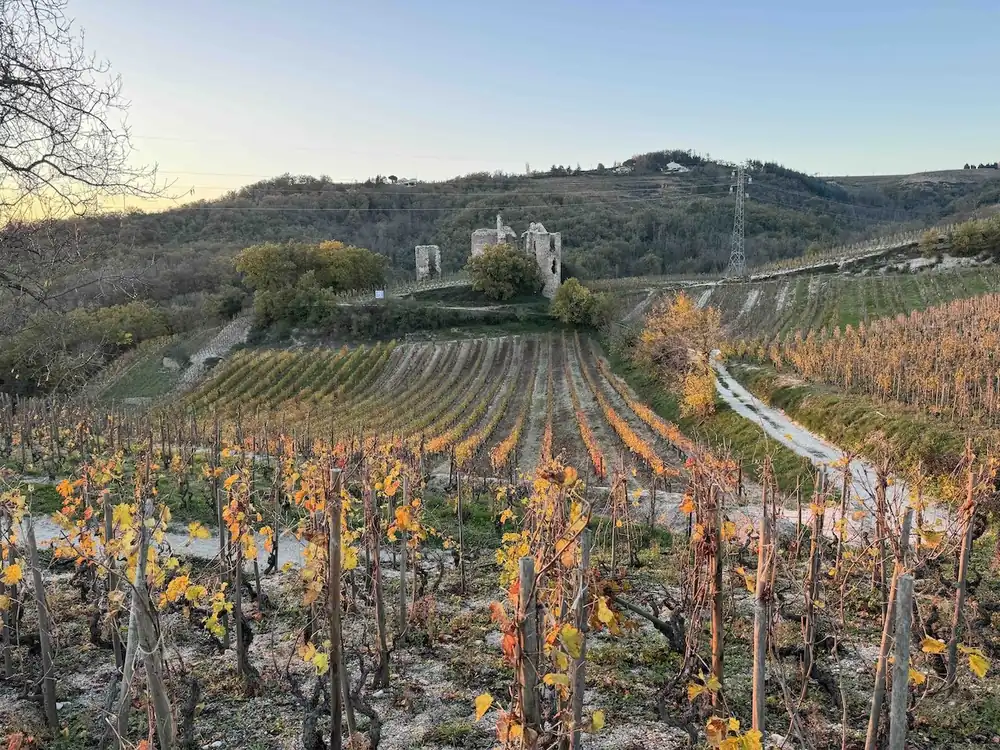
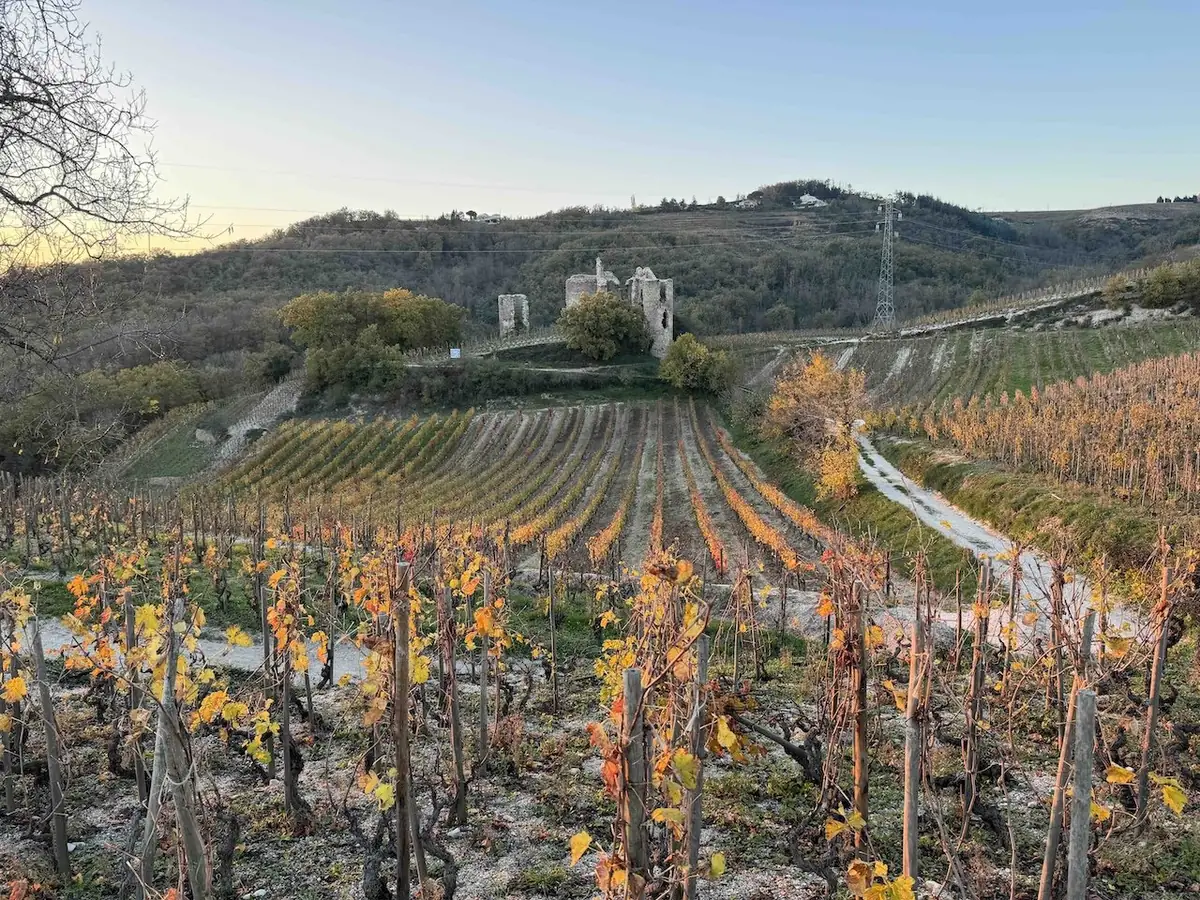
About: photos whole at their own shape, big About title; Guides tile credit as its figcaption
His photos are re-exported at their own aspect ratio (only the bystander
slivers at the left edge trimmed) and laid out in a grid whose column widths
follow each photo's ratio, so nothing is cropped (owner, 19 Oct 2026). The
page gets a visible About heading like the Guides page. The satellite tile
credit moves into the tile's figcaption (ReviewBot PR #114, P2 3).

Claude-Session: https://claude.ai/code/session_01GufJL9KVoJQMTw2uSXyi5B

diff --git a/about/index.html b/about/index.html
@@ -35,16 +35,12 @@
     </header>
 
     <main id="main" class="ab">
+      <header class="page-head">
+        <div class="wrap"><h1>About</h1></div>
+      </header>
       <section class="wrap letter">
-        <div class="mosaic">
-          <img class="t-castle" src="/about/castle.webp" width="1000" height="750" alt="Autumn vineyard rows in yellow leaf below a ruined castle on a hill" />
-          <img class="t-me" src="/about/djoeri.webp" width="600" height="939" loading="lazy" alt="Djoeri Timessen with a glass of red wine" />
-          <img class="t-glass" src="/about/glass.webp" width="600" height="1266" loading="lazy" alt="A glass of red wine on a wooden table, a lake and mountains behind it" />
-          <img class="t-bottles" src="/about/bottles.webp" width="600" height="575" loading="lazy" alt="Three wine bottles on a balcony rail, green hills and mountains behind them" />
-          <img class="t-vines" src="/about/vines.webp" width="600" height="800" loading="lazy" alt="Rows of netted vines under a clear blue sky" />
-        </div>
+        <img class="me" src="/about/djoeri.webp" width="840" height="1217" alt="Djoeri Timessen with a glass of red wine" />
         <div class="words">
-          <h1 class="vh">About AtlaSlope</h1>
           <!-- owner's note -->
           <div class="note">
             <p>I'm Djoeri, a passionate techie who also loves wine.</p>
@@ -58,6 +54,13 @@
           <p class="cred">WSET Level 2 and Level 3. Now studying for the Spanish Wine Scholar.</p>
           <!-- feedback link: owner to choose the address -->
         </div>
+      </section>
+      <!-- photos keep their own shape (owner, 19 Oct 2026, twice: never crop his photos into fixed tiles); one row, column widths in the photos' own width/height ratios, so every photo is whole and the row shares one height -->
+      <section class="wrap photos" aria-label="Photos">
+        <img class="p-castle" src="/about/castle.webp" width="1200" height="900" loading="lazy" alt="Autumn vineyard rows in yellow leaf below a ruined castle on a hill" />
+        <img src="/about/glass.webp" width="800" height="1099" loading="lazy" alt="A glass of red wine on a wooden table, a lake and mountains behind it" />
+        <img src="/about/vines.webp" width="800" height="1067" loading="lazy" alt="Rows of netted vines under a clear blue sky" />
+        <img src="/about/bottles.webp" width="800" height="1067" loading="lazy" alt="Three wine bottles on a balcony rail, green hills and mountains behind them" />
       </section>
       <section class="wrap" aria-labelledby="trace-h"><div class="trace">
         <h2 id="trace-h">Where the facts come from</h2>

diff --git a/src/home/about.css b/src/home/about.css
@@ -1,12 +1,13 @@
 /* About page (mock about-v3, owner pick 19 Oct 2026): a short letter, one traced fact, quiet small print. */
-.vh{position:absolute;width:1px;height:1px;overflow:hidden;clip:rect(0 0 0 0);white-space:nowrap}
 .ab h1,.ab h2{font-family:var(--serif);font-weight:500;letter-spacing:-.025em;text-wrap:balance;margin:0}
+.ab .page-head h1{font-weight:400}
 .ab p{margin:0}
-.letter{display:grid;grid-template-columns:420px minmax(0,40rem);gap:5rem;align-items:center;padding-block:5rem 5.5rem}
-.mosaic{display:grid;grid-template-columns:repeat(2,minmax(0,1fr));gap:2px;border-radius:6px;overflow:hidden;align-self:center}
-.mosaic img{display:block;width:100%;height:100%;object-fit:cover;background:var(--bg2);aspect-ratio:1/1}
-.mosaic .t-castle{grid-column:1/-1;aspect-ratio:4/3}
-.t-bottles{object-position:50% 50%}.t-me{object-position:50% 30%}.t-glass{object-position:40% 50%}.t-vines{object-position:50% 75%}
+.letter{display:grid;grid-template-columns:minmax(0,360px) minmax(0,40rem);gap:5rem;align-items:center;padding-block:4rem 4rem}
+/* his photos keep their own shape (owner, 19 Oct 2026): no object-fit crops, no fixed tiles; each column's fr = that photo's width/height, so the row shares one height */
+.ab img{display:block;width:100%;height:auto;background:var(--bg2)}
+.ab .me{border-radius:6px}
+.photos{display:grid;grid-template-columns:1.3333fr .728fr .75fr .75fr;gap:2px;padding-block:0 4.5rem}
+.photos img:first-child{border-radius:6px 0 0 6px}.photos img:last-child{border-radius:0 6px 6px 0}
 .note{display:grid;gap:.7rem}
 .note p{font-family:var(--serif);font-size:1.55rem;line-height:1.45;color:var(--ink);letter-spacing:-.01em}
 .ab .sign{margin-top:2.25rem;padding-top:1.25rem;border-top:2px solid var(--foil);width:max-content;font-family:var(--serif);font-style:italic;font-size:1.35rem;color:var(--ink)}
@@ -17,7 +18,11 @@
 .fine{padding-block:2rem 3rem;border-top:1px solid var(--line)}
 .ab .fine p{font-size:.82rem;line-height:1.55;color:var(--ink3);max-width:44rem}
 @media (max-width:900px){
-  .letter{grid-template-columns:minmax(0,1fr);gap:2rem;padding-block:1.5rem 3rem}
+  .letter{grid-template-columns:minmax(0,1fr);gap:2rem;padding-block:2rem 3rem}
+  .ab .me{max-width:420px}
+  .photos{grid-template-columns:.728fr .75fr .75fr;padding-bottom:3rem}
+  .photos .p-castle{grid-column:1/-1;border-radius:6px 6px 0 0}
+  .photos img:nth-child(2){border-radius:0 0 0 6px}.photos img:last-child{border-radius:0 0 6px 0}
   .note p{font-size:1.3rem}
   .trace{padding-block:3rem}
   .trace h2{font-size:1.6rem}

diff --git a/src/home/guideCount.ts b/src/home/guideCount.ts
@@ -94,7 +94,8 @@ const creditLine = (keys: string[], photos: Record<string, PhotoCredit>): string
   }
   return parts.length ? `<p class="credit">Photos: ${parts.join('; ')}</p>` : '';
 };
-const SAT_CREDIT = '<p class="credit">Imagery: Esri, Maxar · Spain: PNOA © IGN</p>';
+// the tile's own caption, so a reader ties the credit to the image (ReviewBot PR #114, P2 3)
+const SAT_CREDIT = '<figcaption class="credit">Imagery: Esri, Maxar · Spain: PNOA © IGN</figcaption>';
 
 const photoImg = (key: string, photos: Record<string, PhotoCredit>, sizes: string, alt: boolean) =>
   `<img src="../photos/800/${key}.webp" srcset="../photos/480/${key}.webp 480w, ../photos/800/${key}.webp 800w" sizes="${sizes}" alt="${alt ? esc(photos[key].alt) : ''}" loading="lazy" />`;
@@ -127,11 +128,10 @@ export const fillGuideList = (html: string, list: GuideList): string => {
     out.push(
       `<section class="region" aria-labelledby="r-${esc(r.id)}"><div class="rowh"><h2 id="r-${esc(r.id)}">${esc(r.name)}</h2><span>${n} ${n === 1 ? 'guide' : 'guides'}</span></div>`,
       '<div class="rowg">',
-      r.tile ? `<figure class="sat"><img src="../guides/${esc(r.tile)}" alt="Satellite view of ${esc(r.name)}" width="1200" height="750" loading="lazy" /></figure>` : '',
+      r.tile ? `<figure class="sat"><img src="../guides/${esc(r.tile)}" alt="Satellite view of ${esc(r.name)}" width="1200" height="750" loading="lazy" />${SAT_CREDIT}</figure>` : '',
       ...r.guides.map((g) => card(g, photos)),
       '</div>',
       creditLine(r.guides.flatMap((g) => (g.photo ? [g.photo] : [])), photos),
-      r.tile ? SAT_CREDIT : '',
       '</section>',
     );
   }

diff --git a/src/home/guides.css b/src/home/guides.css
@@ -19,8 +19,8 @@
 .gl .rowh h2{font-size:1.6rem;margin:0}
 .gl .rowh span{font-size:.9rem;color:var(--ink3)}
 .gl .rowg{display:grid;grid-template-columns:repeat(4,minmax(0,1fr));gap:1.75rem 1.25rem}
-.gl .sat{margin:0;grid-column:span 2}
-.gl .sat img{width:100%;height:100%;min-height:200px;object-fit:cover;border-radius:var(--r-img);background:var(--bg2)}
+.gl .sat{margin:0;grid-column:span 2;display:flex;flex-direction:column}
+.gl .sat img{width:100%;flex:1;min-height:200px;object-fit:cover;border-radius:var(--r-img);background:var(--bg2)}
 .gl .gcard-c{display:flex;flex-direction:column;gap:.9rem;min-width:0;text-decoration:none}
 .gl .gcard-c .ct{display:block;aspect-ratio:3/2;border-radius:var(--r-img);overflow:hidden;background:var(--bg2)}
 .gl .gcard-c .ct img{width:100%;height:100%;object-fit:cover}
